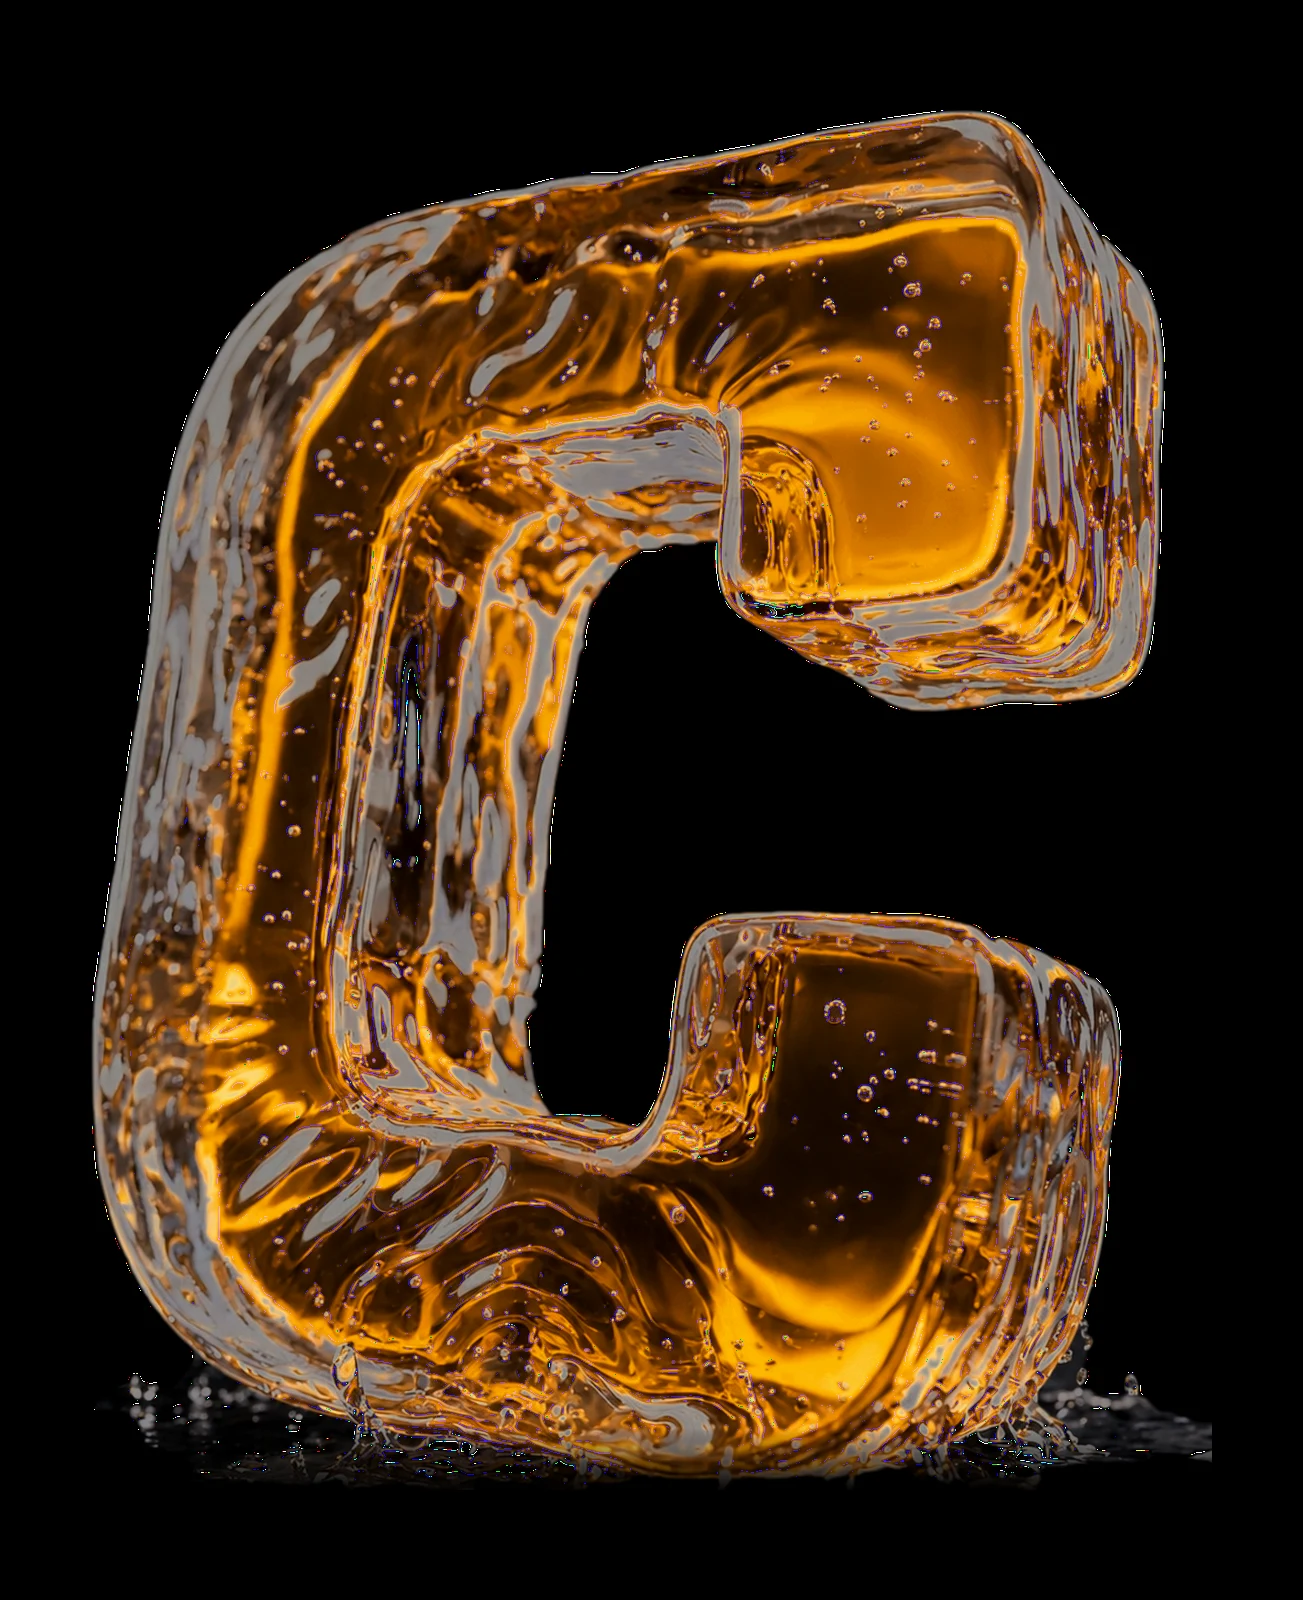
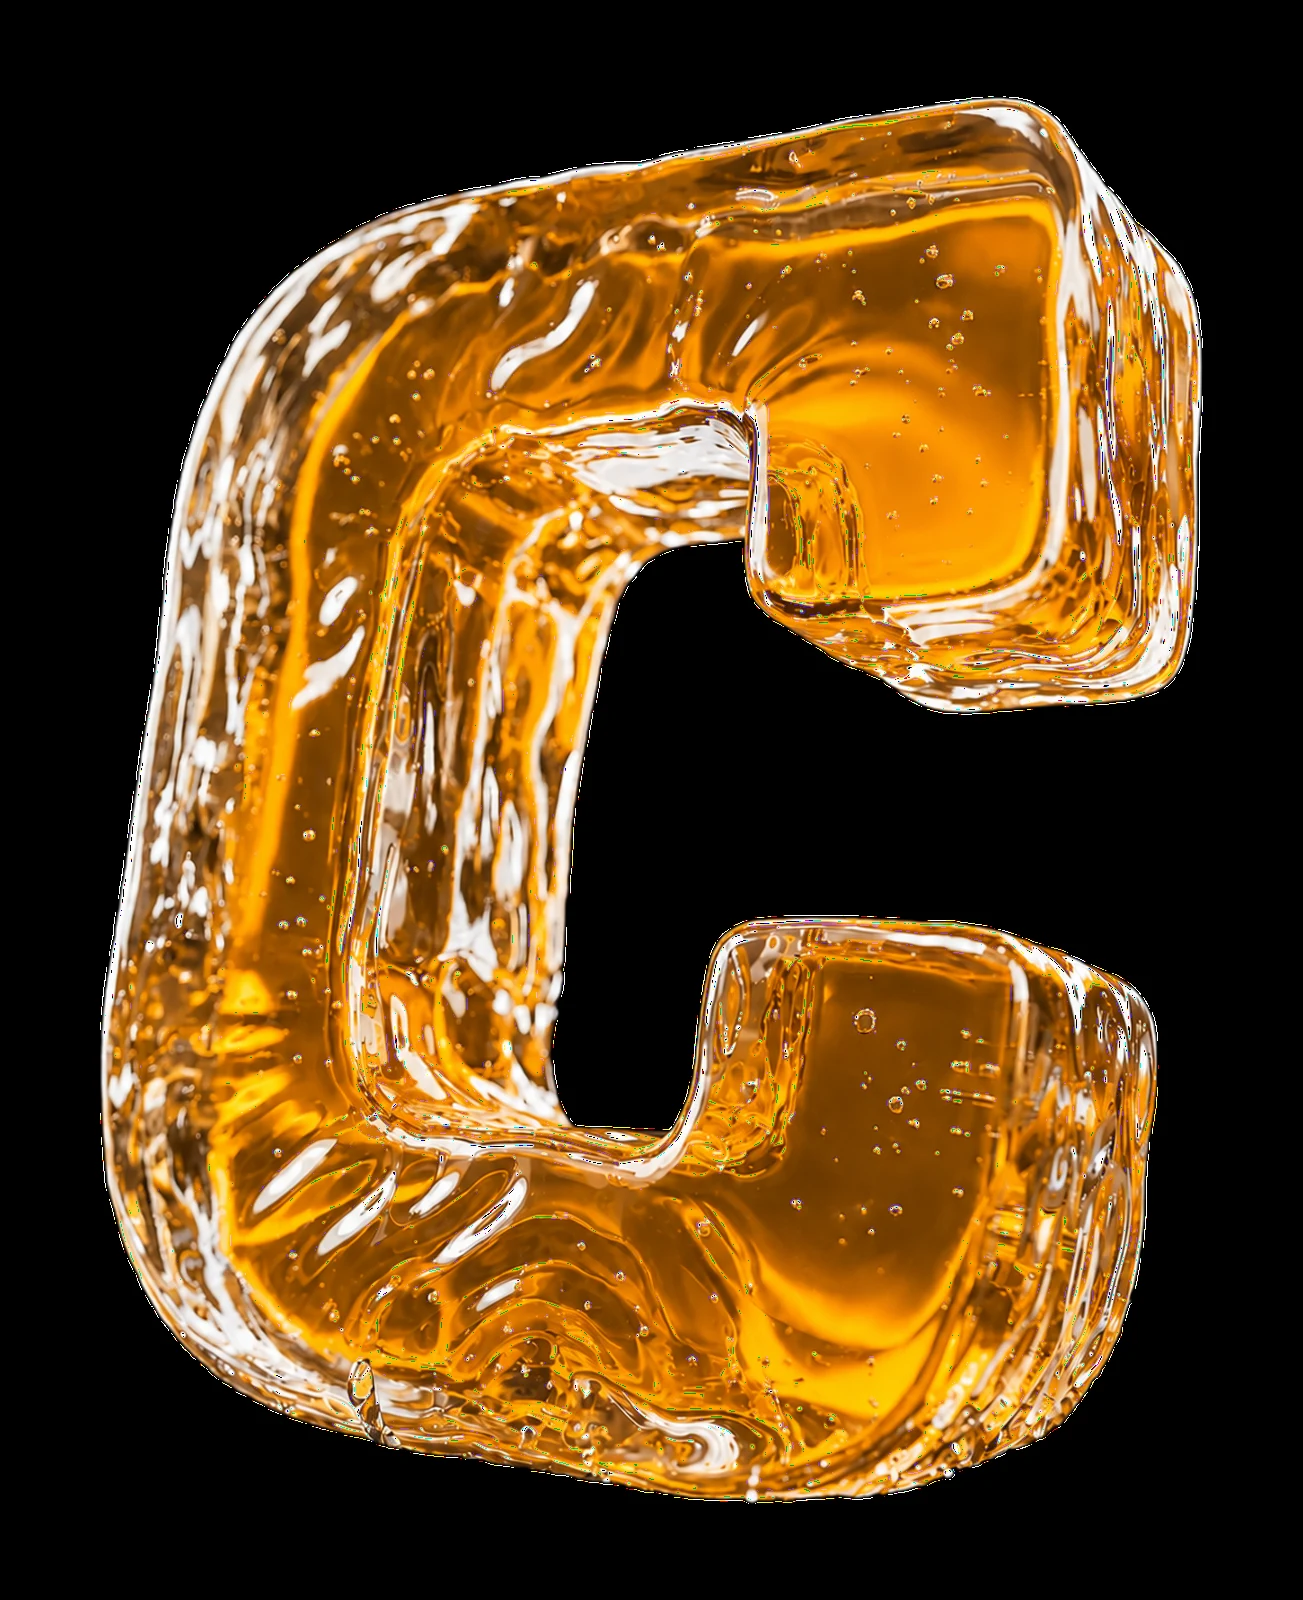
Amber glass C from the new render

diff --git a/assets/metalab.css b/assets/metalab.css
@@ -69,7 +69,7 @@
 .ws-home { position: absolute; inset: 0; transition: opacity .35s ease .08s; }
 .ws-home:not(.is-on) { opacity: 0; pointer-events: none; transition: opacity .12s ease-out; }
 .ws-c { position: absolute; left: 50%; top: 50%; height: 128vh; aspect-ratio: 763 / 937; transform: translate(-46%, -52%) perspective(1600px) rotateY(var(--cy, 0deg)) rotateX(var(--cx, 0deg)); transition: transform 1.4s var(--ml-ease); will-change: transform; }
-.ws-c img { width: 100%; height: 100%; object-fit: contain; mix-blend-mode: screen; filter: url(#liquid) brightness(.62) contrast(1.08); animation: cFloat 12s ease-in-out infinite; }
+.ws-c img { width: 100%; height: 100%; object-fit: contain; mix-blend-mode: screen; filter: url(#liquid) brightness(.56) contrast(1.08); animation: cFloat 12s ease-in-out infinite; }
 /* a dark vignette, so type always reads on the C (MetaLab's object is dark with highlights) */
 .ws-home::after { content: ""; position: absolute; inset: 0; pointer-events: none; background: radial-gradient(70% 60% at 50% 45%, transparent 30%, rgb(0 0 0 / .55) 100%), linear-gradient(180deg, rgb(0 0 0 / .35), transparent 25%, transparent 70%, rgb(0 0 0 / .4)); }
 .ws-catch, .ws-intro { z-index: 1; }
